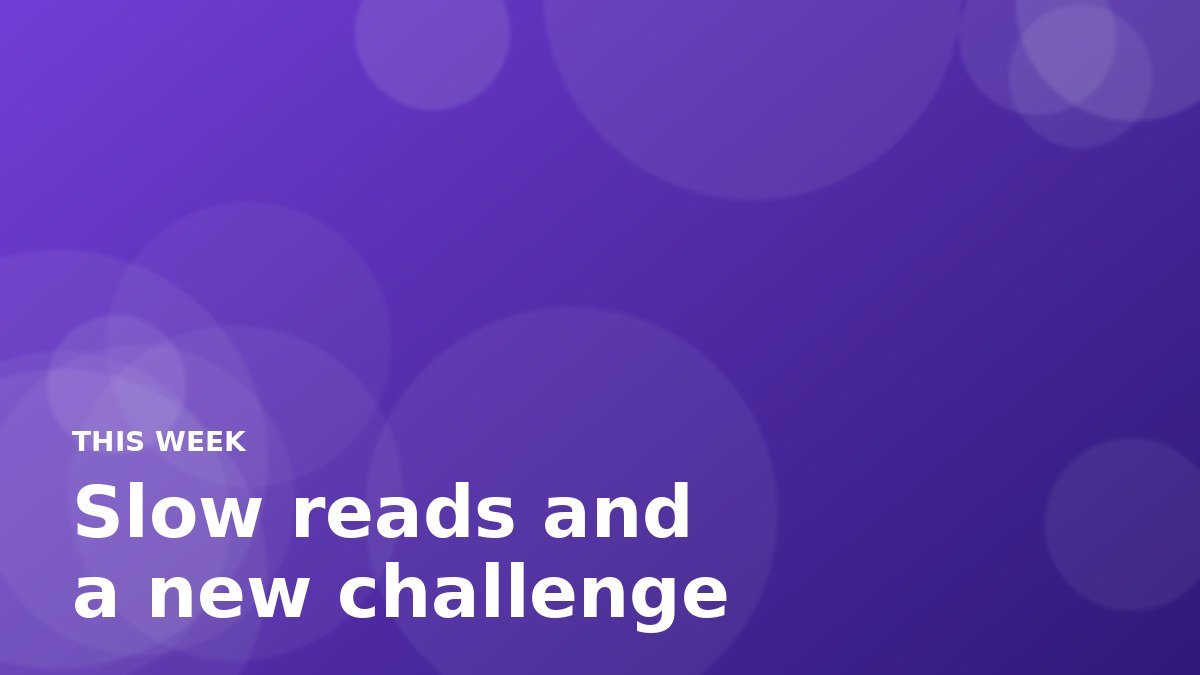
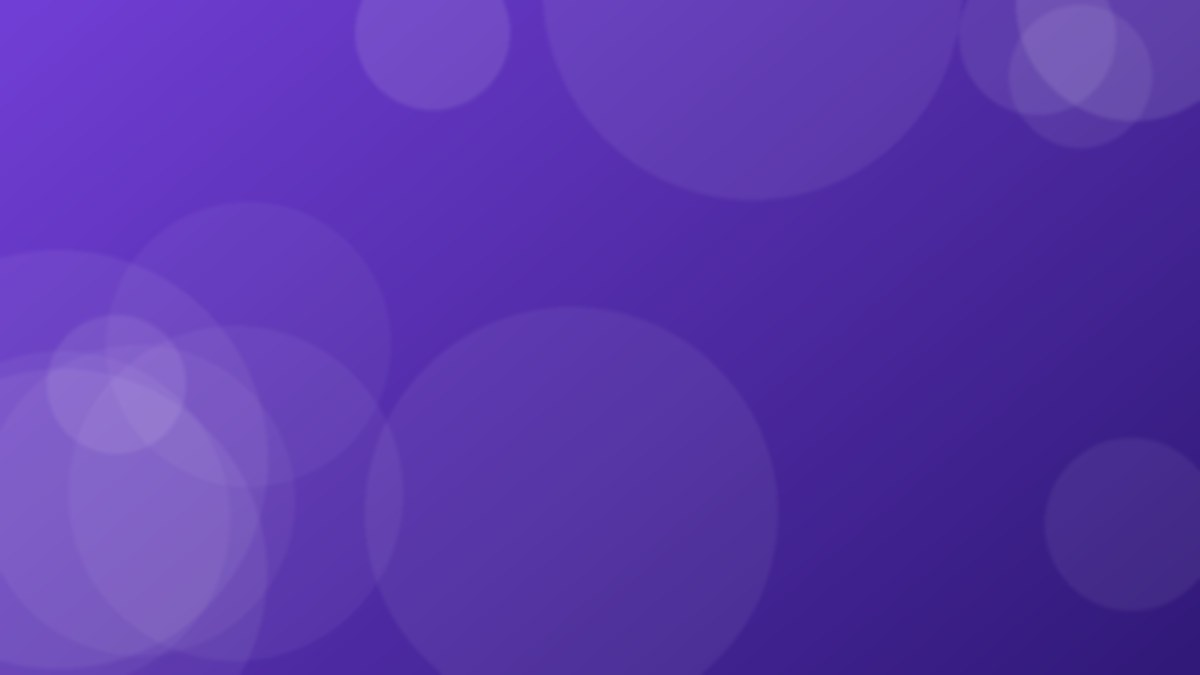
Sample artwork without text; the app draws the title

Changed region(s): [[0.0617, 0.7156, 0.6167, 0.9644], [0.0617, 0.7156, 0.2158, 0.8089], [0.0617, 0.6222, 0.2158, 0.6844]]

diff --git a/editorial/README.md b/editorial/README.md
@@ -39,7 +39,7 @@ tip:
 Your note for the week, in Markdown.
 ```
 
-Every section is optional. Artwork goes in `static/images/issues/` at 1200×675 and `artwork` is just its file name: the build turns it into the raw GitHub address, which is live the moment the commit lands on `main`. (A full `https://` address is used as given.) The app shows it on the Timeline card and as the cover of the edition. Without artwork the app uses its accent cover.
+Every section is optional. Artwork goes in `static/images/issues/` at 1200×675, imagery only with no text, since the app draws the date, title and summary over it. `artwork` is just its file name: the build turns it into the raw GitHub address, which is live the moment the commit lands on `main`. (A full `https://` address is used as given.) The app shows it on the Timeline card and as the cover of the edition. Without artwork the app uses its accent cover.
 
 ## What gets built
 
